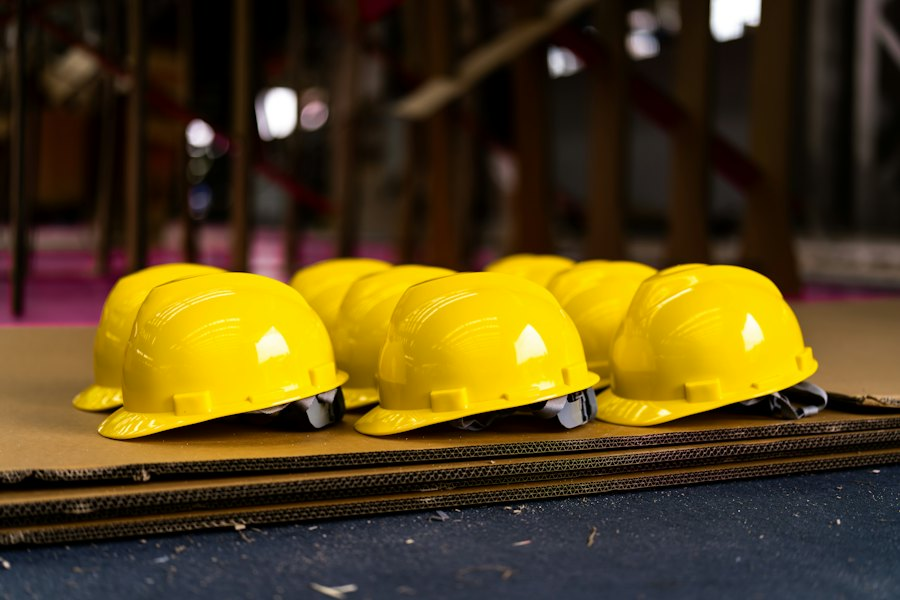
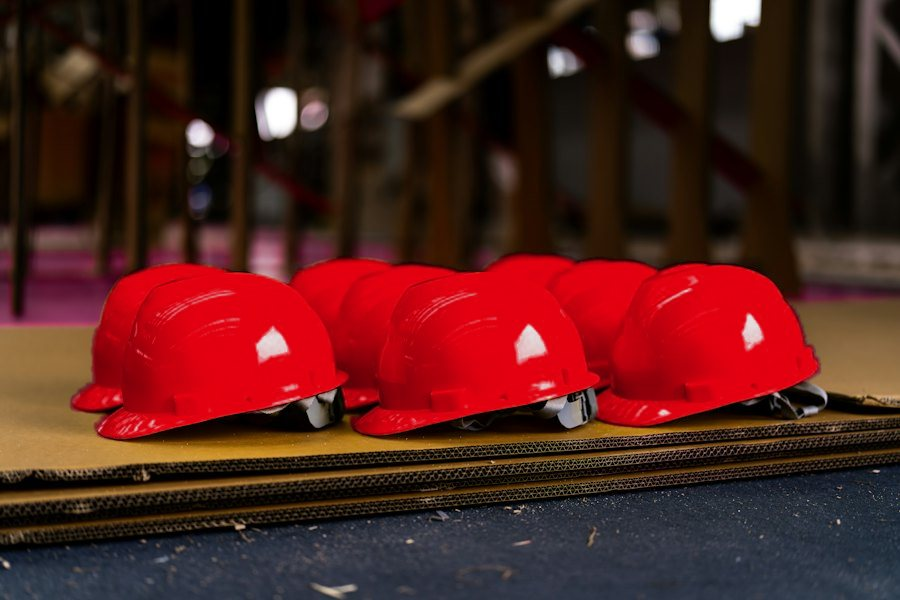
Kırmızı baretli hero görseli; GitHub token yokken panel salt okunur
- Ana sayfa hero fotoğrafındaki sarı baretler marka kırmızısına çevrildi
  (1800 ve 900 px sürümler); alt metin ve CREDITS.md'deki düzenleme notu güncellendi.
- Depo yapılandırılmamışsa panel hata vermek yerine deploy edilmiş içeriği
  salt okunur gösterir (ReadOnlyStore); kayıtlar eksik değişkeni adıyla reddedilir.
- Panel uyarısı yalnızca eksik GitHub değişkenlerini listeler.

Claude-Session: https://claude.ai/code/session_01AQwfGchBx1Dz6NzpstcHPJ

Changed region(s): [[0.0622, 0.42, 0.9333, 0.75]]

diff --git a/src/app/admin/(panel)/layout.tsx b/src/app/admin/(panel)/layout.tsx
@@ -1,6 +1,6 @@
 import Link from 'next/link'
 import { requireAdmin } from '@/lib/auth/guard'
-import { storeKind } from '@/lib/env'
+import { missingGithubVars, storeKind } from '@/lib/env'
 import { AdminNav } from '@/components/admin/AdminNav'
 import { Csrf } from '@/components/admin/Csrf'
 import { logout } from '../login-actions'
@@ -18,7 +18,7 @@ export default async function PanelLayout({ children }: { children: React.ReactN
           Yönetim paneli
         </Link>
         <span className="admin-muted">
-          {kind === 'github' ? 'Depo: GitHub' : kind === 'local' ? 'Depo: yerel dosyalar (geliştirme)' : 'Depo yapılandırılmamış'}
+          {kind === 'github' ? 'Depo: GitHub' : kind === 'local' ? 'Depo: yerel dosyalar (geliştirme)' : 'Depo: salt okunur'}
         </span>
         <div className="admin-bar__end">
           <Link href="/" target="_blank">
@@ -40,8 +40,14 @@ export default async function PanelLayout({ children }: { children: React.ReactN
           {kind === 'none' ? (
             <div className="notice notice--warn" role="alert">
               <p>
-                İçerik deposu yapılandırılmamış: değişiklikler kaydedilemez. Vercel ortam değişkenlerine <code>GITHUB_TOKEN</code>,{' '}
-                <code>GITHUB_OWNER</code>, <code>GITHUB_REPO</code> ekleyin (README: “GitHub entegrasyonu”).
+                İçerik deposu yapılandırılmamış. Panel yayındaki içeriği salt okunur gösteriyor; değişiklikler kaydedilemez. Kaydetmek için Vercel ortam değişkenlerine eksik olanları ekleyin:{' '}
+                {missingGithubVars().map((v, i) => (
+                  <span key={v}>
+                    {i > 0 ? ', ' : ''}
+                    <code>{v}</code>
+                  </span>
+                ))}{' '}
+                (README: “GitHub entegrasyonu”).
               </p>
             </div>
           ) : null}

diff --git a/tests/unit/store.test.ts b/tests/unit/store.test.ts
@@ -4,6 +4,7 @@ import { tmpdir } from 'node:os'
 import path from 'node:path'
 import { LocalStore } from '@/lib/store/local'
 import { GithubStore } from '@/lib/store/github'
+import { getStore } from '@/lib/store'
 import { ConflictError, StoreUnavailableError, assertLogicalPath } from '@/lib/store/types'
 import { gitBlobSha } from '@/lib/store/sha'
 
@@ -24,6 +25,25 @@ describe('logical paths', () => {
       expect(() => assertLogicalPath(bad), bad).toThrow()
     }
     expect(() => assertLogicalPath('content/posts/a-b.md')).not.toThrow()
+  })
+})
+
+describe('read-only fallback', () => {
+  it('reads deployed content but refuses commits when GitHub is not configured', async () => {
+    const local = new LocalStore()
+    await local.commit([{ path: 'content/settings.json', content: Buffer.from('{}\n') }], 'seed')
+    vi.stubEnv('NODE_ENV', 'production')
+    vi.stubEnv('CONTENT_STORE', 'github')
+    vi.stubEnv('GITHUB_TOKEN', '')
+    vi.stubEnv('GITHUB_OWNER', 'o')
+    vi.stubEnv('GITHUB_REPO', 'r')
+    const store = getStore()
+    expect(store.kind).toBe('readonly')
+    expect((await store.read('content/settings.json'))?.content.toString()).toBe('{}\n')
+    const err = await store.commit([{ path: 'content/settings.json', content: Buffer.from('x') }], 'm').catch((e) => e)
+    expect(err).toBeInstanceOf(StoreUnavailableError)
+    expect(err.message).toContain('GITHUB_TOKEN')
+    expect(err.message).not.toContain('GITHUB_OWNER')
   })
 })
 

diff --git a/src/lib/store/readonly.ts b/src/lib/store/readonly.ts
@@ -1,0 +1,43 @@
+import 'server-only'
+import { LocalStore } from './local'
+import {
+  StoreUnavailableError,
+  type ActivityEntry,
+  type CommitResult,
+  type ContentStore,
+  type FileEntry,
+  type LogicalPath,
+  type StoredFile,
+} from './types'
+
+/**
+ * Used when no writable store is configured (e.g. GITHUB_TOKEN missing on
+ * Vercel). The panel can still show the content that shipped with the
+ * deployment, but every save is refused with a message naming what to set.
+ */
+export class ReadOnlyStore implements ContentStore {
+  readonly kind = 'readonly' as const
+  private readonly source = new LocalStore()
+
+  constructor(private readonly reason: string) {}
+
+  read(p: LogicalPath): Promise<StoredFile | null> {
+    return this.source.read(p)
+  }
+
+  readMany(paths: LogicalPath[]): Promise<Map<LogicalPath, StoredFile>> {
+    return this.source.readMany(paths)
+  }
+
+  list(dir: LogicalPath): Promise<FileEntry[]> {
+    return this.source.list(dir)
+  }
+
+  async commit(): Promise<CommitResult> {
+    throw new StoreUnavailableError(this.reason)
+  }
+
+  async activity(): Promise<ActivityEntry[]> {
+    return []
+  }
+}

diff --git a/src/lib/store/index.ts b/src/lib/store/index.ts
@@ -1,15 +1,18 @@
 import 'server-only'
-import { githubConfig, storeKind } from '../env'
+import { githubConfig, missingGithubVars, storeKind } from '../env'
 import { GithubStore } from './github'
 import { LocalStore } from './local'
-import { StoreUnavailableError, type ContentStore } from './types'
+import { ReadOnlyStore } from './readonly'
+import type { ContentStore } from './types'
 
 export function getStore(): ContentStore {
   const kind = storeKind()
   if (kind === 'local') return new LocalStore()
   if (kind === 'github') return new GithubStore(githubConfig()!)
-  throw new StoreUnavailableError(
-    'İçerik deposu yapılandırılmamış. GITHUB_TOKEN, GITHUB_OWNER ve GITHUB_REPO ortam değişkenlerini ayarlayın (README: "GitHub entegrasyonu").',
+  // No writable store: show the content shipped with this deployment, refuse saves.
+  const missing = missingGithubVars()
+  return new ReadOnlyStore(
+    `Kaydedilemedi: içerik deposu yapılandırılmamış. Eksik ortam değişkeni: ${missing.length ? missing.join(', ') : 'CONTENT_STORE=github'} (README: "GitHub entegrasyonu").`,
   )
 }
 

diff --git a/src/lib/env.ts b/src/lib/env.ts
@@ -57,6 +57,11 @@ export type GithubConfig = {
   uploadsPath: string
 }
 
+/** Names of the GitHub variables that are still empty, so the panel can say exactly what to add. */
+export function missingGithubVars(): string[] {
+  return (['GITHUB_TOKEN', 'GITHUB_OWNER', 'GITHUB_REPO'] as const).filter((k) => !process.env[k])
+}
+
 export function githubConfig(): GithubConfig | null {
   const { GITHUB_TOKEN, GITHUB_OWNER, GITHUB_REPO } = process.env
   if (!GITHUB_TOKEN || !GITHUB_OWNER || !GITHUB_REPO) return null

diff --git a/src/lib/visuals.tsx b/src/lib/visuals.tsx
@@ -34,7 +34,7 @@ export const SITE_PHOTOS = {
     srcSet: '/images/baretler-sira-900.jpg 900w, /images/baretler-sira.jpg 1800w',
     width: 1800,
     height: 1200,
-    alt: 'Bir masanın üzerinde sıra hâlinde dizilmiş sarı baretler',
+    alt: 'Karton üzerinde sıra hâlinde dizilmiş kırmızı baretler',
     credit: 'Declan Sun, Unsplash',
   },
   ppe: {

diff --git a/src/lib/store/types.ts b/src/lib/store/types.ts
@@ -24,7 +24,7 @@ export type ActivityEntry = {
 }
 
 export interface ContentStore {
-  readonly kind: 'github' | 'local'
+  readonly kind: 'github' | 'local' | 'readonly'
   read(path: LogicalPath): Promise<StoredFile | null>
   list(dir: LogicalPath): Promise<FileEntry[]>
   /** Reads several files from one consistent snapshot. Missing files are omitted. */

diff --git a/public/images/CREDITS.md b/public/images/CREDITS.md
@@ -2,11 +2,11 @@
 
 Tüm görseller [Unsplash Lisansı](https://unsplash.com/license) altındadır (ücretsiz, ticari kullanım
 dahil; atıf zorunlu değil, yine de veriyoruz). Lisans her fotoğrafın kendi sayfasından 2026-10-29
-tarihinde doğrulandı. Görseller temsilidir; belirli bir işyerini veya olayı göstermez.
+tarihinde doğrulandı. Unsplash Lisansı fotoğrafların değiştirilmesine izin verir. Görseller temsilidir; belirli bir işyerini veya olayı göstermez.
 
 | Dosya | Fotoğrafçı | Kaynak |
 |---|---|---|
-| `baretler-sira.jpg`, `baretler-sira-900.jpg` | Declan Sun | https://unsplash.com/photos/LutB1xxyArA |
+| `baretler-sira.jpg`, `baretler-sira-900.jpg` | Declan Sun | https://unsplash.com/photos/LutB1xxyArA (renk düzenlendi: özgün fotoğraftaki sarı baretler marka kırmızısına çevrildi) |
 | `baret-yelek-duvar-700.jpg` | Tanya Paquet | https://unsplash.com/photos/wjHdeYmI-XU |
 | `uyari-seridi-koni-1600.jpg` | John Cardamone | https://unsplash.com/photos/E7uzf7MOPIc |
 

diff --git a/README.md b/README.md
@@ -141,8 +141,9 @@ Panel, içeriği GitHub'ın Git Data API'siyle (blob, tree, commit, ref) tek com
 5. Token'ı yalnızca Vercel ortam değişkeni `GITHUB_TOKEN` olarak girin. Repoya, `.env.example`'a
    veya bir sohbete yazmayın. Token tarayıcıya gönderilmez ve loglanmaz.
 
-Token yoksa veya geçersizse panel çalışıyormuş gibi davranmaz: üstte "İçerik deposu
-yapılandırılmamış" uyarısı çıkar, kayıt işlemleri açık bir hata mesajıyla reddedilir.
+Token yoksa panel çalışıyormuş gibi davranmaz: üstte "İçerik deposu yapılandırılmamış" uyarısı
+eksik değişkenleri adıyla sayar, panel yayındaki (deploy edilmiş) içeriği **salt okunur** gösterir
+ve kayıt işlemleri açık bir hata mesajıyla reddedilir. Token geçersizse GitHub'ın hatası gösterilir.
 
 ## Yayın akışı
 
